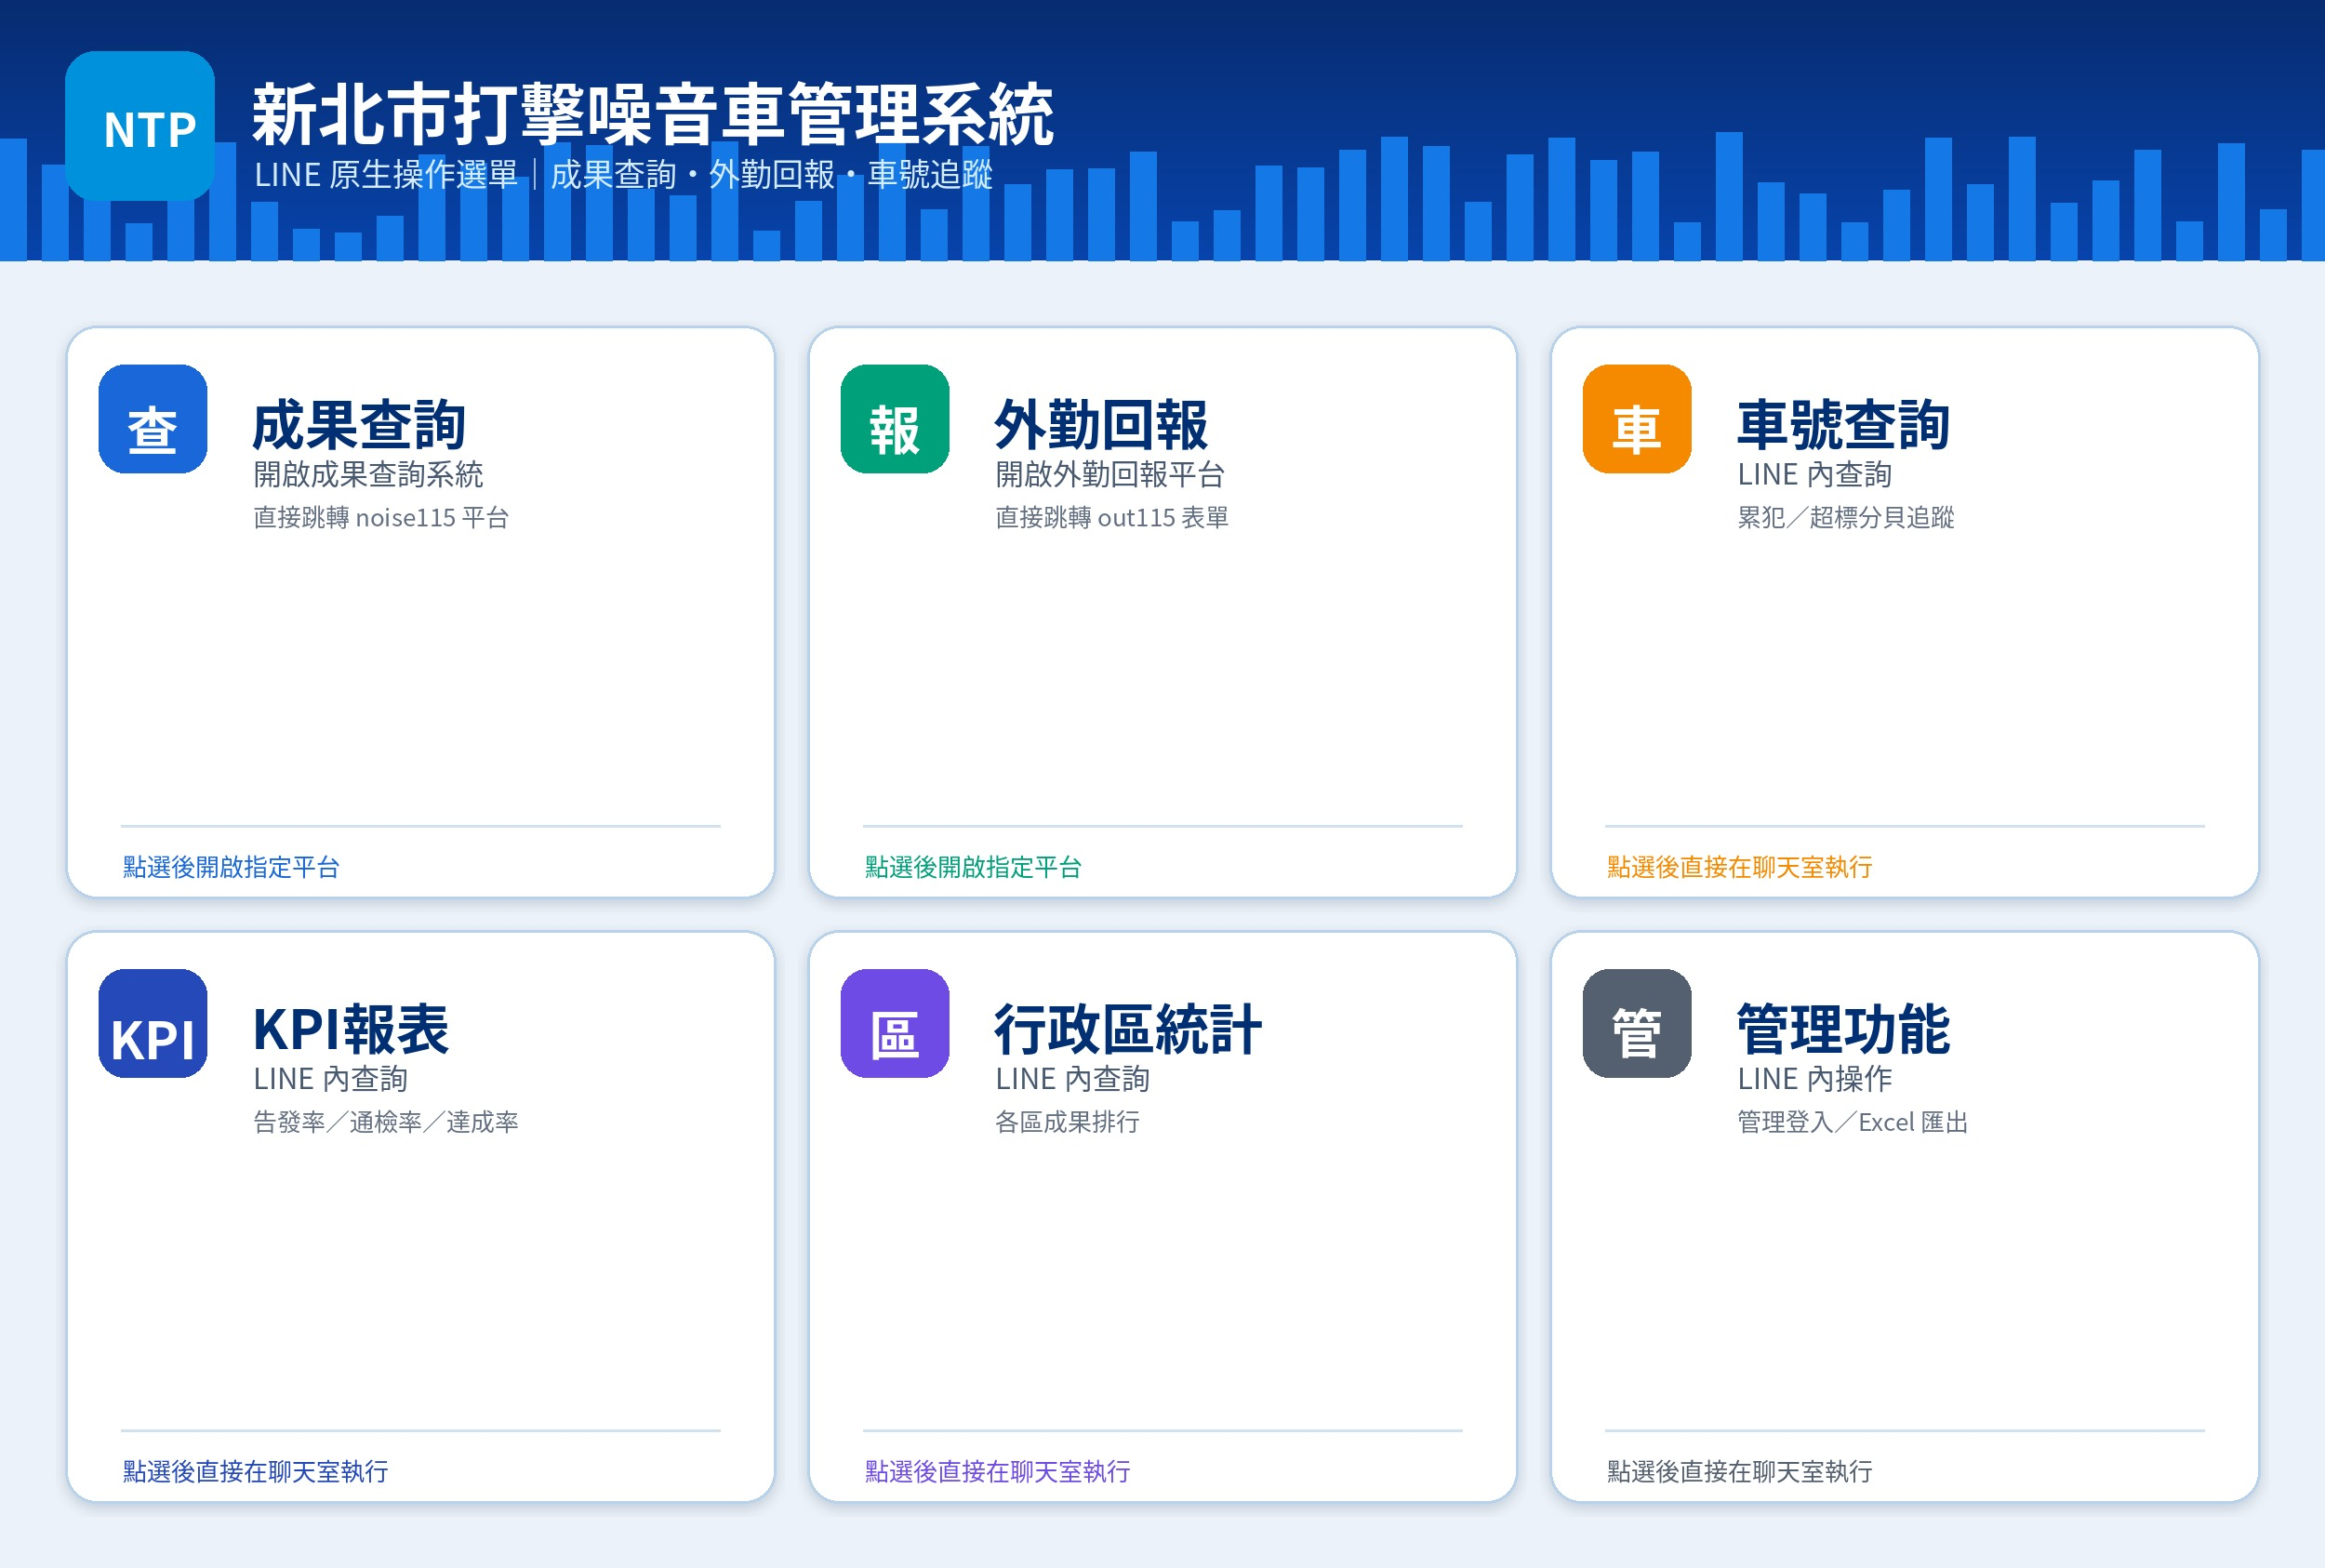
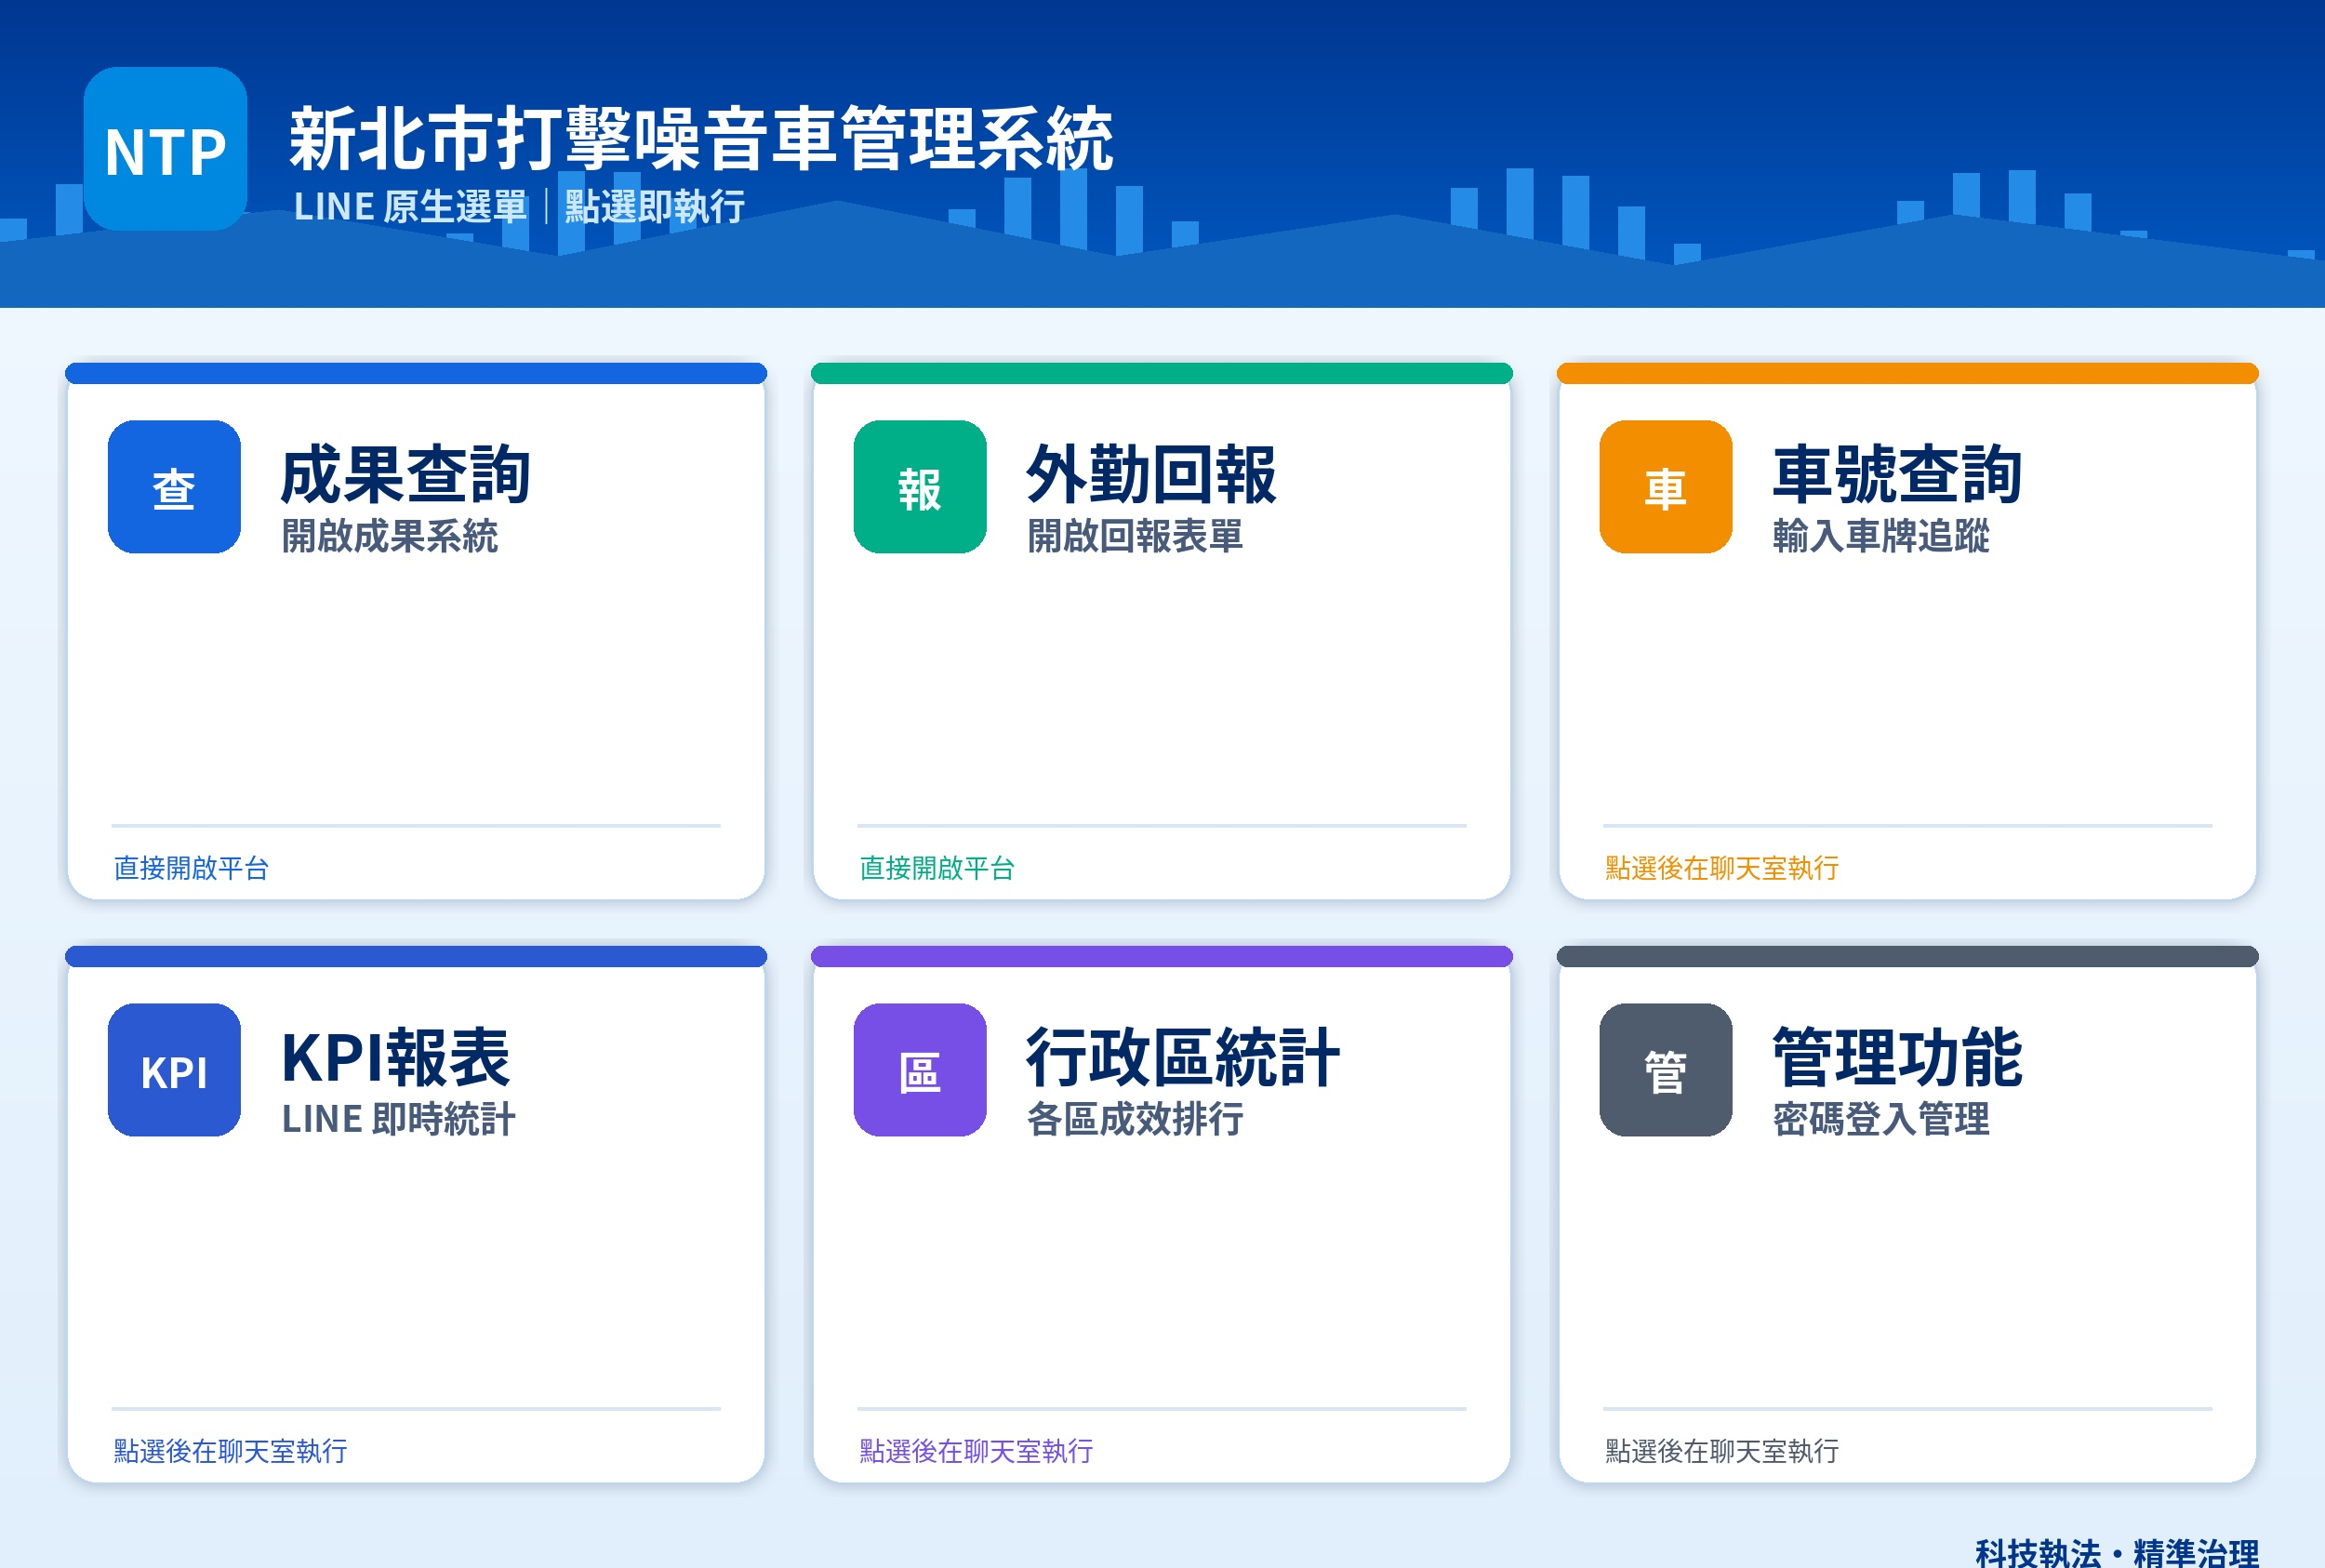
Add files via upload

Changed region(s): [[0.0, 0.0, 1.0, 1.0]]

diff --git a/README_LINE_NATIVE_V6.md b/README_LINE_NATIVE_V6.md
@@ -1,0 +1,32 @@
+# LINE 原生操作版 V6
+
+本版優化圖文選單可讀性：
+
+- 文字放大。
+- 六項功能不重複。
+- 成果查詢與外勤回報保留指定跳轉網址。
+- 車號查詢、KPI報表、行政區統計、管理功能在 LINE 聊天室直接執行。
+
+## 指定網址
+
+```env
+DASHBOARD_URL=https://noise115.zeabur.app
+FIELD_REPORT_URL=https://out115.zeabur.app
+PUBLIC_BASE_URL=https://newtaipeinoise.zeabur.app
+```
+
+## 更新 LINE 圖文選單
+
+部署 V6 後進入：
+
+```text
+https://newtaipeinoise.zeabur.app/admin.html
+```
+
+登入密碼：
+
+```text
+Wayne0118
+```
+
+按「一鍵建立／更新 LINE 圖文選單」。